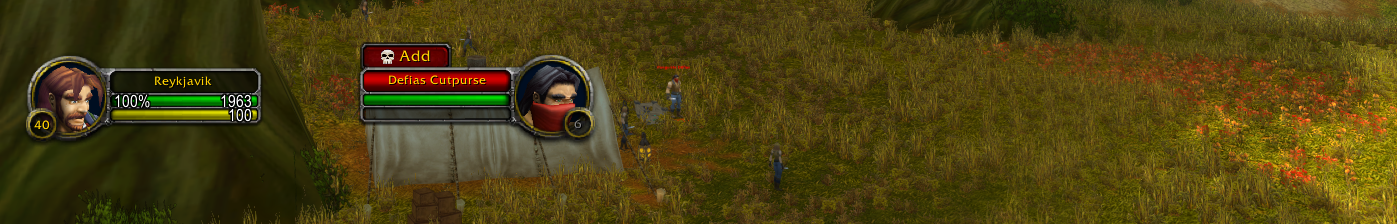
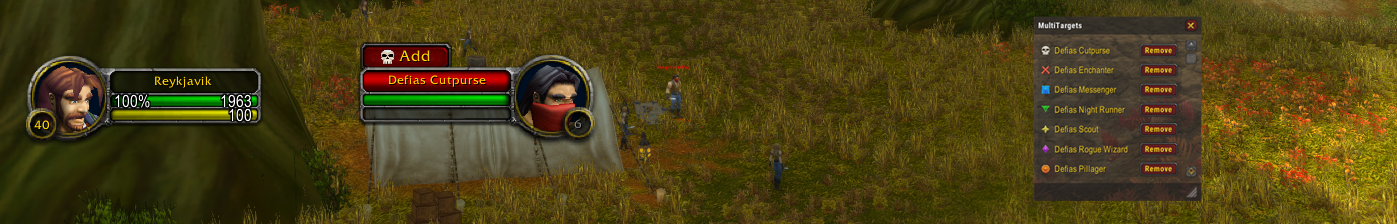
Update the "How to use this addon" image

Changed region(s): [[0.7387, 0.0625, 0.8618, 0.9062]]

diff --git a/README.md b/README.md
@@ -40,7 +40,7 @@ which is the framework used to build this addon.
 
 ## How to use this addon
 
-![A Defias being targetted](https://i.imgur.com/iaXC0qn.png "A Defias being targetted")
+![A Defias being targetted](https://i.imgur.com/tgeFd5t.png "A Defias being targetted")
 
 * Install and enable the addon
 * Once you log in, the addon will load the default target list
@@ -90,8 +90,6 @@ from the target list
 
 ## What's on the roadmap for the next versions
 
-* **Visual target list editor:** A graphical interface to manage the
-target list with buttons to add, remove, and clear names
 * **Toolbox in the targets window:** A toolbox above the target list
 with buttons to add, remove, clear, and other actions
 * **Multiple target lists:** The ability to create and manage multiple
@@ -141,7 +139,10 @@ versions.
 
 ## Changelog
 
-### yyyy.mm.dd - version 1.1.0
+### 2024.04.27 - version 1.1.0
+
+* A new frame to manage the target list with the current target names, their
+associated raid markers and remove buttons
 
 #### 2024.04.25 - version 1.0.1
 
